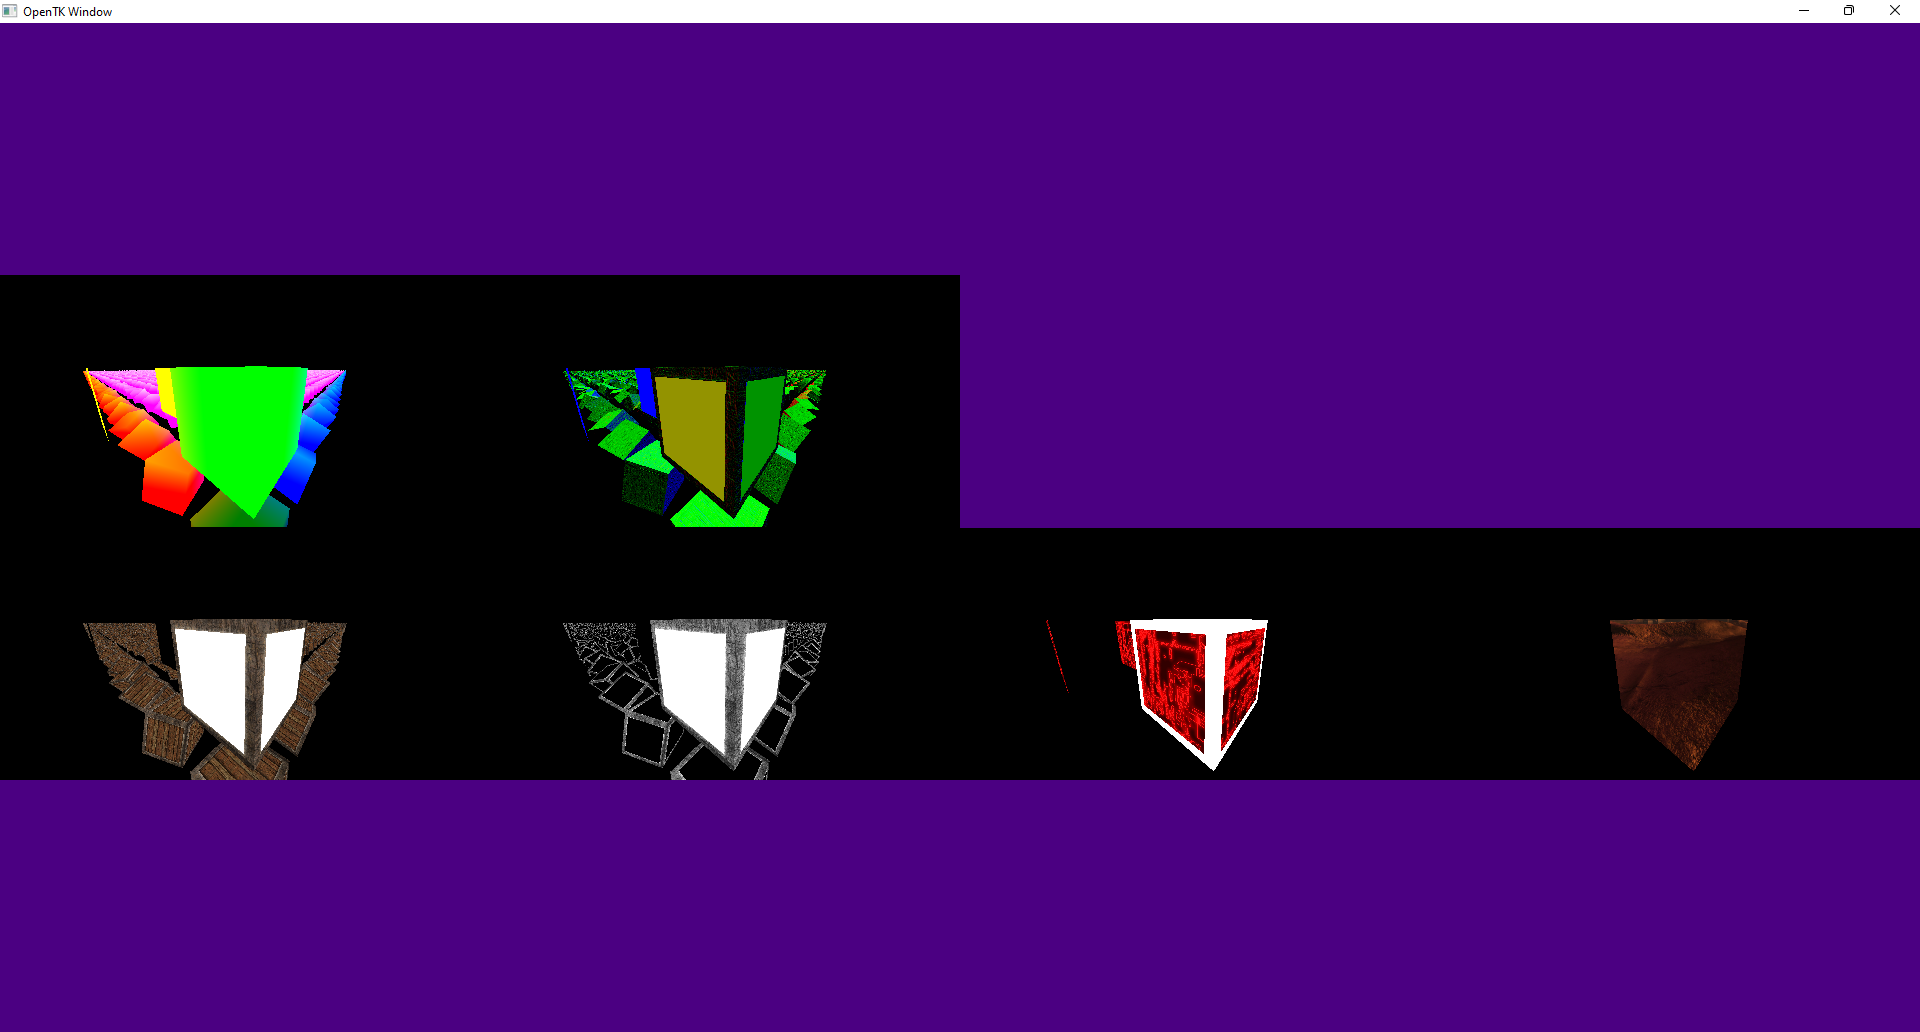
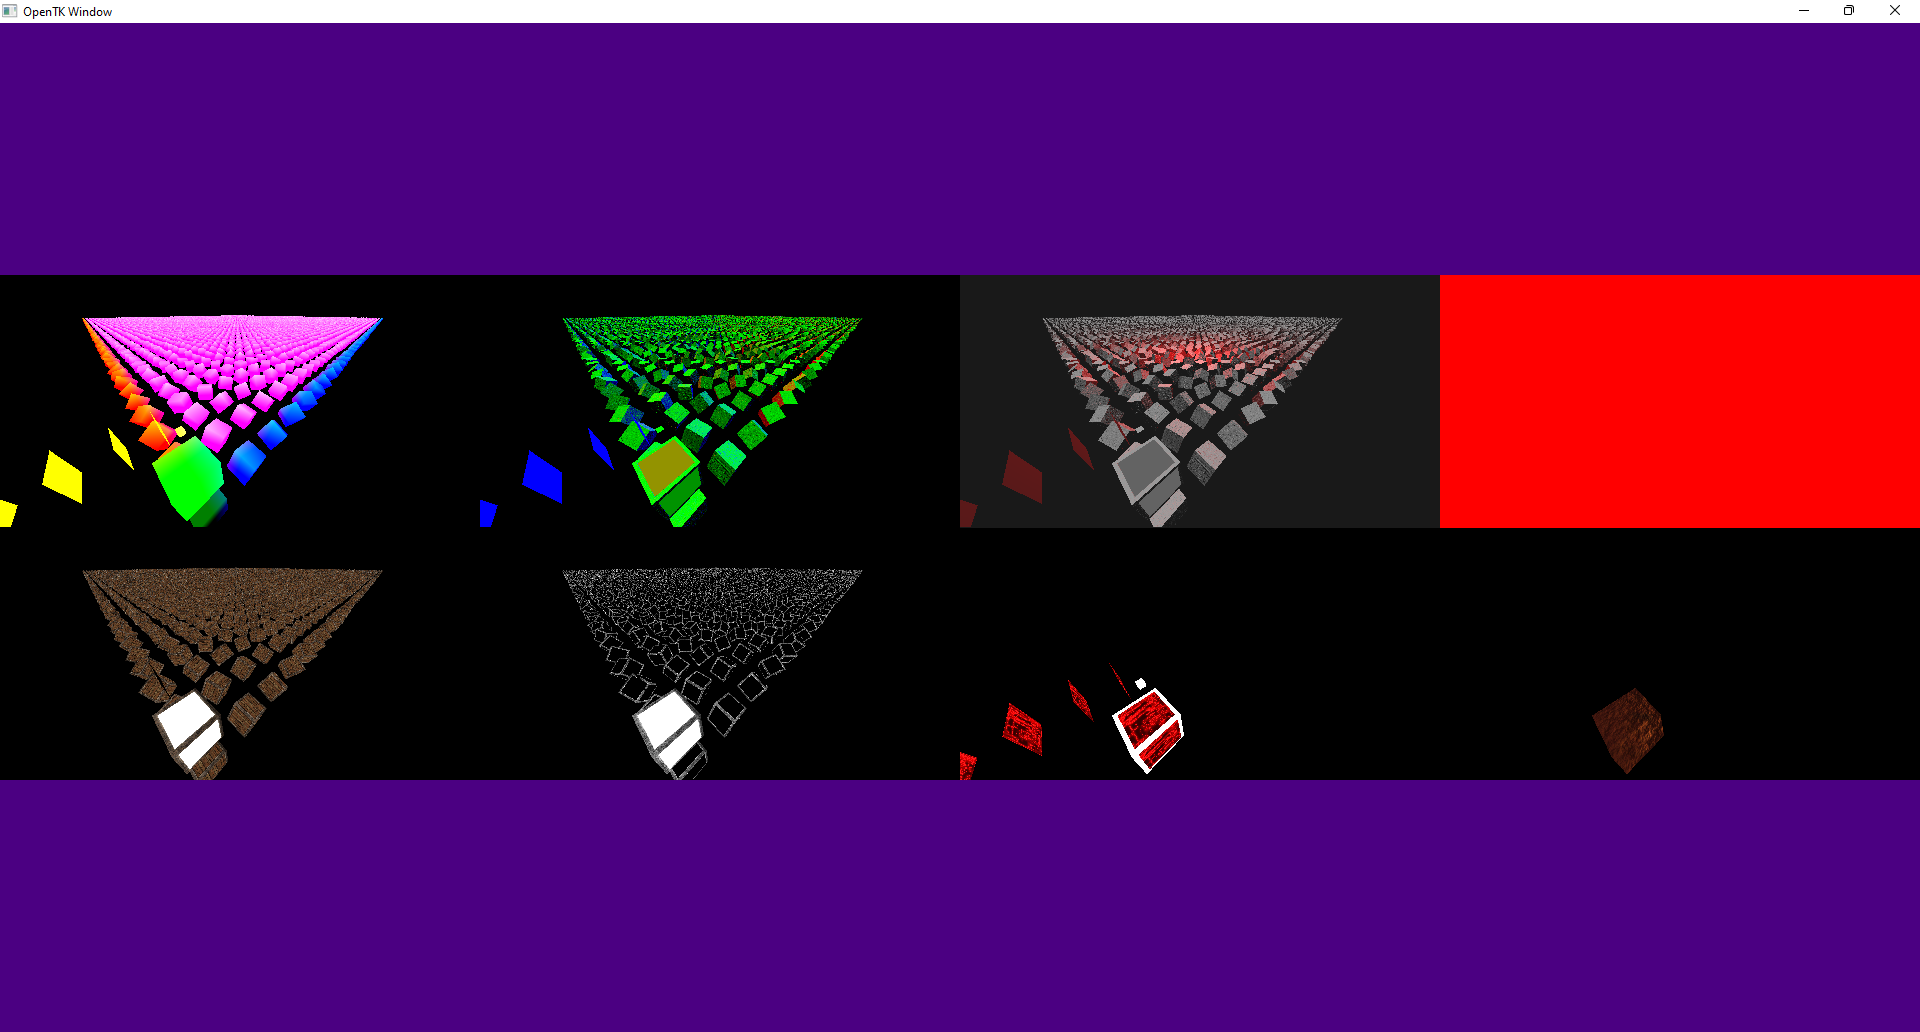
Implemented lights.

diff --git a/EiveoEngine/Graphics/LightRenderer.cs b/EiveoEngine/Graphics/LightRenderer.cs
@@ -1,5 +1,6 @@
 namespace EiveoEngine.Graphics;
 
+using Cameras;
 using OpenTK.Graphics.OpenGL4;
 using Textures;
 
@@ -25,13 +26,124 @@ public class LightRenderer : Shader
 	private const string FragmentShader = @"
 		#version 410 core
 
+		struct AmbientLight {
+            vec4 Color;
+        };
+
+		struct DirectionalLight {
+            vec4 Color;
+
+            vec4 Direction;
+        };
+
+		struct PointLight {
+            vec4 Color;
+
+            vec4 Position;
+
+            float Constant;
+            float Linear;
+            float Quadratic;
+        };
+
+		struct SpotLight {
+            vec4 Color;
+
+            vec4 Position;
+            vec4 Direction;
+
+            float Constant;
+            float Linear;
+            float Quadratic;
+
+            float CutOffInner;
+            float CutOffOuter;
+        };
+
+		layout(packed) uniform uLights
+		{
+			AmbientLight uAmbientLights[1];
+			DirectionalLight uDirectionalLights[1];
+			PointLight uPointLights[1];
+			SpotLight uSpotLights[1];
+
+			vec4 vViewDirection;
+
+			int uAmbientLightsCount;
+			int uDirectionalLightsCount;
+			int uPointLightsCount;
+			int uSpotLightsCount;
+		};
+
+		uniform sampler2D uPositionMap;
+		uniform sampler2D uNormalMap;
+		uniform sampler2D uSpecularMap;
+
 		in vec2 vUv;
 
 		out vec4 fColor;
 
 		void main()
 		{
-			fColor = vec4(1.0, vUv.x, vUv.y, 1.0);
+			vec3 position = texture(uPositionMap, vUv).xyz;
+			vec3 normalMap = texture(uNormalMap, vUv).xyz;
+			vec3 specularMap = texture(uSpecularMap, vUv).xyz;
+
+			vec3 ambientLight = vec3(0.0, 0.0, 0.0);
+			vec3 diffuseLight = vec3(0.0, 0.0, 0.0);
+			vec3 specularLight = vec3(0.0, 0.0, 0.0);
+
+			float shininess = 32.0;
+
+			for (int i = 0; i < uAmbientLightsCount; i++)
+			{
+				vec3 lightColor = uAmbientLights[i].Color.xyz * uAmbientLights[i].Color.w;
+				ambientLight += lightColor;
+			}
+
+			for (int i = 0; i < uDirectionalLightsCount; i++)
+			{
+				vec3 lightColor = uDirectionalLights[i].Color.xyz * uDirectionalLights[i].Color.w;
+				vec3 lightDirection = normalize(-uDirectionalLights[i].Direction.xyz);
+				vec3 reflectDirection = reflect(-lightDirection, normalMap);
+
+				diffuseLight += max(dot(normalMap, lightDirection), 0.0) * lightColor;
+				specularLight += specularMap.xyz * pow(max(dot(vViewDirection.xyz, reflectDirection), 0.0), shininess) * lightColor;
+			}
+
+			for (int i = 0; i < uPointLightsCount; i++)
+			{
+				vec3 lightColor = uPointLights[i].Color.xyz * uPointLights[i].Color.w;
+				float distance = length(uPointLights[i].Position.xyz - position);
+				vec3 lightDirection = normalize(uPointLights[i].Position.xyz - position);
+				vec3 reflectDirection = reflect(-lightDirection, normalMap);
+				float attenuation = 1.0 / (uPointLights[i].Constant + uPointLights[i].Linear * distance + uPointLights[i].Quadratic * (distance * distance));
+
+				diffuseLight += max(dot(normalMap, lightDirection), 0.0) * lightColor * attenuation;
+				specularLight += specularMap.xyz * pow(max(dot(vViewDirection.xyz, reflectDirection), 0.0), shininess) * lightColor * attenuation;
+			}
+
+			// TODO spot lights do not work yet!
+			for (int i = 0; i < uSpotLightsCount; i++)
+			{
+				vec3 lightDirection = normalize(uSpotLights[i].Position.xyz - position);
+				float theta = dot(lightDirection, normalize(-uSpotLights[i].Direction.xyz));
+
+				if (theta > uSpotLights[i].CutOffOuter)
+				{
+					vec3 lightColor = uSpotLights[i].Color.xyz * uSpotLights[i].Color.w;
+					float distance = length(uSpotLights[i].Position.xyz - position);
+					float epsilon = uSpotLights[i].CutOffInner - uSpotLights[i].CutOffOuter;
+					float intensity = clamp((theta - uSpotLights[i].CutOffOuter) / epsilon, 0.0, 1.0);
+					vec3 reflectDirection = reflect(-lightDirection, normalMap);
+					float attenuation = 1.0 / (uSpotLights[i].Constant + uSpotLights[i].Linear * distance + uSpotLights[i].Quadratic * (distance * distance));
+
+					diffuseLight += max(dot(normalMap, lightDirection), 0.0) * lightColor * attenuation * intensity;
+					specularLight += specularMap.xyz * pow(max(dot(vViewDirection.xyz, reflectDirection), 0.0), shininess) * lightColor * attenuation * intensity;
+				}
+			}
+
+			fColor = vec4(ambientLight + diffuseLight + specularLight, 1.0);
 		}
 	";
 
@@ -41,6 +153,8 @@ public class LightRenderer : Shader
 
 	public readonly FrameBufferTexture Output;
 	private readonly int framebuffer;
+	private readonly int buffer;
+	private readonly int lights;
 
 	private int width;
 	private int height;
@@ -82,6 +196,16 @@ public class LightRenderer : Shader
 		this.Output = new FrameBufferTexture(FramebufferAttachment.ColorAttachment0);
 		GL.DrawBuffers(1, new[] { DrawBuffersEnum.ColorAttachment0 });
 		GL.BindFramebuffer(FramebufferTarget.Framebuffer, 0);
+		this.buffer = GL.GenBuffer();
+		this.lights = GL.GetUniformBlockIndex(this.Program, "uLights");
+
+		GL.UseProgram(this.Program);
+
+		GL.Uniform1(GL.GetUniformLocation(this.Program, "uPositionMap"), 0);
+		GL.Uniform1(GL.GetUniformLocation(this.Program, "uNormalMap"), 1);
+		GL.Uniform1(GL.GetUniformLocation(this.Program, "uSpecularMap"), 2);
+
+		GL.UseProgram(0);
 	}
 
 	public void Resize(int width, int height)
@@ -95,20 +219,102 @@ public class LightRenderer : Shader
 		this.Output.Resize(PixelInternalFormat.Rgba, width, height);
 	}
 
-	public void Draw(DeferredBuffer deferredBuffer)
+	public void Draw(DeferredBuffer deferredBuffer, Camera camera, Scene scene)
 	{
+		var data = new byte[(1 * 4 + 1 * 8 + 1 * 12 + 1 * 20) * sizeof(float) + 4 * sizeof(float) + 4 * sizeof(int)];
+		var writer = new BinaryWriter(new MemoryStream(data));
+
+		writer.Write(1.0f);
+		writer.Write(1.0f);
+		writer.Write(1.0f);
+		writer.Write(0.1f);
+
+		writer.Write(1.0f);
+		writer.Write(1.0f);
+		writer.Write(1.0f);
+		writer.Write(0.5f);
+		writer.Write(0.0f);
+		writer.Write(-1.0f);
+		writer.Write(0.0f);
+		writer.Write(0.0f);
+
+		writer.Write(1.0f);
+		writer.Write(0.0f);
+		writer.Write(0.0f);
+		writer.Write(1.0f);
+		writer.Write(10.0f);
+		writer.Write(2.0f);
+		writer.Write(10.0f);
+		writer.Write(0.0f);
+		writer.Write(1.0f);
+		writer.Write(0.045f);
+		writer.Write(0.0075f);
+		writer.Write(0.0f);
+
+		writer.Write(0.0f);
+		writer.Write(1.0f);
+		writer.Write(0.0f);
+		writer.Write(1.0f);
+		writer.Write(10.0f);
+		writer.Write(-2.0f);
+		writer.Write(10.0f);
+		writer.Write(0.0f);
+		writer.Write(0.0f);
+		writer.Write(1.0f);
+		writer.Write(0.0f);
+		writer.Write(0.0f);
+		writer.Write(1);
+		writer.Write(0.045f);
+		writer.Write(0.0075f);
+		writer.Write(12.5f);
+		writer.Write(17.5f);
+		writer.Write(0.0f);
+		writer.Write(0.0f);
+		writer.Write(0.0f);
+		
+		writer.Write(camera.Forward.X);
+		writer.Write(camera.Forward.Y);
+		writer.Write(camera.Forward.Z);
+		writer.Write(0.0f);
+
+		writer.Write(1);
+		writer.Write(1);
+		writer.Write(1);
+		writer.Write(1);
+
+		GL.BindBuffer(BufferTarget.UniformBuffer, this.buffer);
+		GL.BufferData(BufferTarget.UniformBuffer, data.Length, data, BufferUsageHint.StaticDraw);
+		GL.BindBuffer(BufferTarget.UniformBuffer, 0);
 		GL.BindFramebuffer(FramebufferTarget.Framebuffer, this.framebuffer);
 
 		GL.Clear(ClearBufferMask.ColorBufferBit);
 
 		GL.UseProgram(this.Program);
+		GL.BindBufferBase(BufferRangeTarget.UniformBuffer, this.lights, this.buffer);
 		GL.BindVertexArray(this.vao);
 
-		// TODO bind the required uniform textures!
+		GL.ActiveTexture(TextureUnit.Texture0);
+		GL.BindTexture(TextureTarget.Texture2D, deferredBuffer.Position.Id);
+
+		GL.ActiveTexture(TextureUnit.Texture1);
+		GL.BindTexture(TextureTarget.Texture2D, deferredBuffer.Normal.Id);
+
+		GL.ActiveTexture(TextureUnit.Texture2);
+		GL.BindTexture(TextureTarget.Texture2D, deferredBuffer.Specular.Id);
 
 		GL.DrawElements(PrimitiveType.Triangles, 6, DrawElementsType.UnsignedInt, 0);
+		
+		GL.ActiveTexture(TextureUnit.Texture2);
+		GL.BindTexture(TextureTarget.Texture2D, 0);
+		
+		GL.ActiveTexture(TextureUnit.Texture1);
+		GL.BindTexture(TextureTarget.Texture2D, 0);
+
+		GL.ActiveTexture(TextureUnit.Texture0);
+		GL.BindTexture(TextureTarget.Texture2D, 0);
 
 		GL.BindVertexArray(0);
+		GL.BindBufferBase(BufferRangeTarget.UniformBuffer, this.lights, 0);
 		GL.UseProgram(0);
 
 		GL.BindFramebuffer(FramebufferTarget.Framebuffer, 0);

diff --git a/SimplestGame/Game.cs b/SimplestGame/Game.cs
@@ -3,6 +3,7 @@ namespace SimplestGame;
 using EiveoEngine.Extensions;
 using EiveoEngine.Graphics;
 using EiveoEngine.Graphics.Cameras;
+using EiveoEngine.Graphics.Lights;
 using EiveoEngine.Graphics.Textures;
 using OpenTK.Graphics.OpenGL4;
 using OpenTK.Mathematics;
@@ -16,8 +17,7 @@ public class Game : GameWindow
 {
 	private readonly DeferredRenderer deferredRenderer;
 	private readonly Camera camera;
-
-	private readonly List<ModelInstance> modelInstances = new();
+	private readonly Scene scene;
 	private readonly ModelInstance lightSource;
 
 	private bool skipMouseInput = true;
@@ -128,9 +128,11 @@ public class Game : GameWindow
 
 		var lightMaterial = new Material { EmissiveColor = Color.White };
 
+		this.scene = new Scene();
+
 		for (var i = 0; i < 10000; i++)
 		{
-			this.modelInstances.Add(
+			this.scene.ModelInstances.Add(
 				new ModelInstance(cubeModel, crateMaterial)
 				{
 					Position = new Vector3((int) (i / 100f), 0, i % 100) * 2, Rotation = new Vector3(1.0f, 0.3f, 0.5f) * (20f * i).ToRadians()
@@ -138,14 +140,20 @@ public class Game : GameWindow
 			);
 		}
 
-		this.modelInstances.Add(new ModelInstance(cubeModel, testMaterial) { Position = new Vector3(0, 2, 0) });
+		this.scene.ModelInstances.Add(new ModelInstance(cubeModel, testMaterial) { Position = new Vector3(0, 2, 0) });
 
 		for (var i = 0; i < 10; i++)
-			this.modelInstances.Add(new ModelInstance(planeModel, emissiveMaterial) { Position = new Vector3(2, 2, -i) });
+			this.scene.ModelInstances.Add(new ModelInstance(planeModel, emissiveMaterial) { Position = new Vector3(2, 2, -i) });
 
-		this.modelInstances.Add(
+		this.scene.ModelInstances.Add(
 			this.lightSource = new ModelInstance(cubeModel, lightMaterial) { Scale = new Vector3(0.2f), Position = new Vector3(1.2f, 1.0f, 2.0f) }
 		);
+
+		this.scene.AmbientLights.Add(new AmbientLight { Color = Color.FromArgb(15, 255, 255, 255) });
+
+		// TODO a directional sunlight
+		// TODO a bunch of point lights
+		// TODO the orbiting spot light which points to 0,0,0
 	}
 
 	protected override void OnUpdateFrame(FrameEventArgs args)
@@ -221,7 +229,7 @@ public class Game : GameWindow
 
 		this.camera.Update(this.ClientSize);
 
-		this.deferredRenderer.Draw(this.camera, this.modelInstances);
+		this.deferredRenderer.Draw(this.camera, this.scene);
 
 		this.SwapBuffers();
 	}

diff --git a/EiveoEngine/Graphics/DeferredRenderer.cs b/EiveoEngine/Graphics/DeferredRenderer.cs
@@ -17,14 +17,14 @@ public class DeferredRenderer
 		this.shadowRenderer = new ShadowRenderer();
 	}
 
-	public void Draw(Camera camera, IEnumerable<ModelInstance> modelInstances)
+	public void Draw(Camera camera, Scene scene)
 	{
 		this.DeferredBuffer.Resize((int) camera.Size.X, (int) camera.Size.Y);
 		this.lightRenderer.Resize((int) camera.Size.X, (int) camera.Size.Y);
 		this.shadowRenderer.Resize((int) camera.Size.X, (int) camera.Size.Y);
-		
-		this.DeferredBuffer.Draw(camera, modelInstances);
-		this.lightRenderer.Draw(this.DeferredBuffer);
+
+		this.DeferredBuffer.Draw(camera, scene);
+		this.lightRenderer.Draw(this.DeferredBuffer, camera, scene);
 		this.shadowRenderer.Draw(this.DeferredBuffer);
 		this.deferredDebugger.Draw(this.DeferredBuffer, this.lightRenderer, this.shadowRenderer);
 	}

diff --git a/EiveoEngine/Graphics/DeferredBuffer.cs b/EiveoEngine/Graphics/DeferredBuffer.cs
@@ -210,7 +210,7 @@ public class DeferredBuffer : Shader
 		GL.BindRenderbuffer(RenderbufferTarget.Renderbuffer, 0);
 	}
 
-	public void Draw(Camera camera, IEnumerable<ModelInstance> modelInstances)
+	public void Draw(Camera camera, Scene scene)
 	{
 		GL.BindFramebuffer(FramebufferTarget.Framebuffer, this.framebuffer);
 
@@ -224,7 +224,7 @@ public class DeferredBuffer : Shader
 		GL.UniformMatrix4(this.view, false, ref view);
 		GL.UniformMatrix4(this.projection, false, ref projection);
 
-		foreach (var modelInstance in modelInstances)
+		foreach (var modelInstance in scene.ModelInstances)
 		{
 			var matrix = modelInstance.Transform;
 

diff --git a/EiveoEngine/Graphics/Scene.cs b/EiveoEngine/Graphics/Scene.cs
@@ -1,0 +1,12 @@
+namespace EiveoEngine.Graphics;
+
+using Lights;
+
+public class Scene
+{
+	public readonly List<ModelInstance> ModelInstances = new();
+	public readonly List<AmbientLight> AmbientLights = new();
+	public readonly List<DirectionalLight> DirectionalLights = new();
+	public readonly List<PointLight> PointLights = new();
+	public readonly List<SpotLight> SpotLights = new();
+}

diff --git a/EiveoEngine/Graphics/DeferredDebugger.cs b/EiveoEngine/Graphics/DeferredDebugger.cs
@@ -127,7 +127,7 @@ public class DeferredDebugger : Shader
 		GL.UniformMatrix4(this.model, false, ref cubeMatrix);
 		GL.BindTexture(TextureTarget.Texture2D, deferredBuffer.Cube.Id);
 		GL.DrawElements(PrimitiveType.Triangles, 6, DrawElementsType.UnsignedInt, 0);
-		
+
 		GL.BindTexture(TextureTarget.Texture2D, 0);
 		GL.BindVertexArray(0);
 		GL.UseProgram(0);
